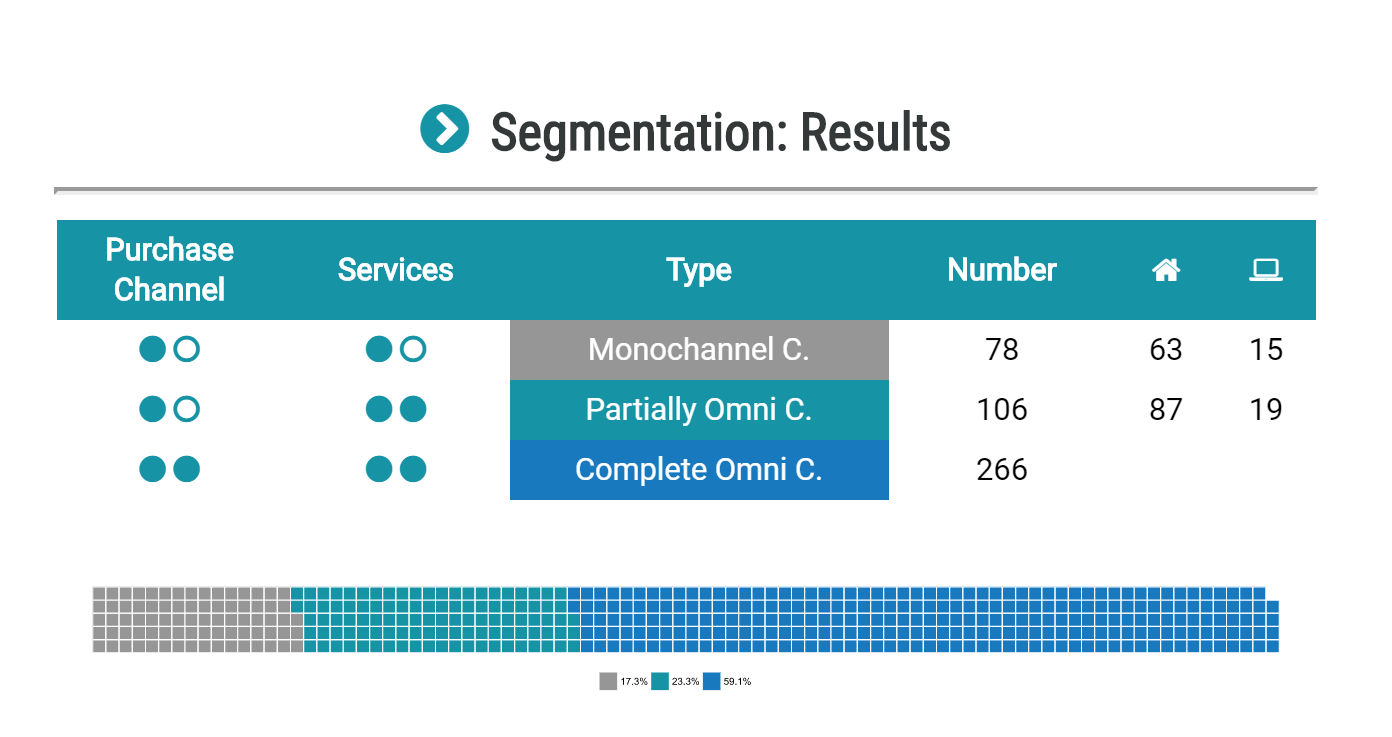
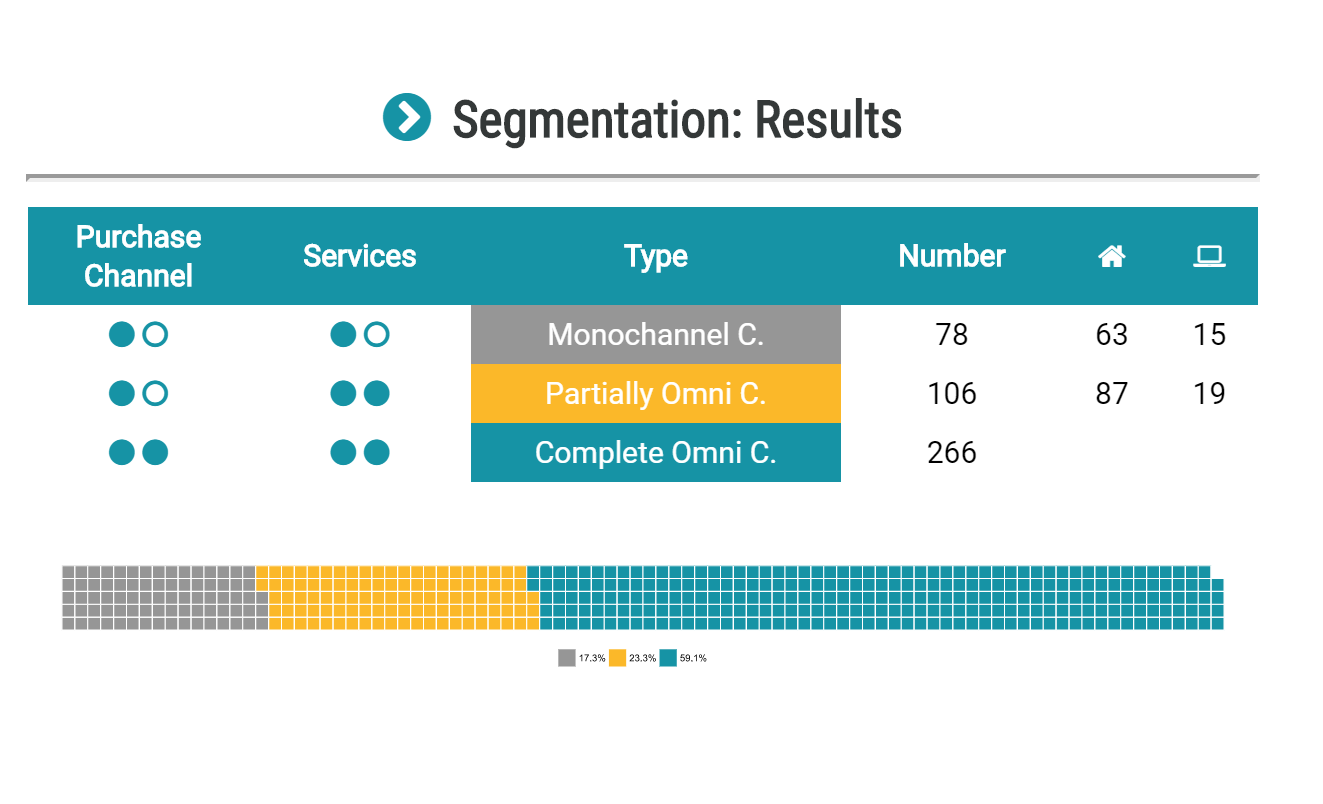
versionfinal
cambio en color del gráfico para mejor presentación en pantalla

diff --git a/index.html b/index.html
@@ -206,8 +206,8 @@
              <table border="1" class="peque bordetotal">
                 <thead><th width="18%">Purchase Channel</th><th width="18%">Services</th><th width="30%" >Type</th><th width="18%">Number</th><th width="8%"><i class="fa fa-home"></i></th><th width="8%"><i class="fa fa-laptop"></i></th></thead>
                 <tr><td><i class="color fa fa-circle"></i> <i class="color fa fa-circle-o"></i></td><td><i class="color fa fa-circle"></i> <i class="color fa fa-circle-o"></i></td><td style="color:white; background-color:#969696 ">Monochannel C.</td><td>78<td>63</td><td>15</td></tr>
-                 <tr><td><i class="color fa fa-circle"></i> <i class="color fa fa-circle-o"></i> </td><td><i class="color fa fa-circle"></i> <i class="color fa fa-circle"></i></td><td style="color:white; background-color:#1693a5">Partially Omni C.</td><td>106</td><td>87</td><td>19</td></tr>
-                <tr><td><i class="color fa fa-circle"></i> <i class="color fa fa-circle"></i></td><td><i class="color fa fa-circle"></i> <i class="color fa fa-circle"></i></td><td  style="color:white; background-color:#1879bf"> Complete Omni C.</td><td>266</td><td colspan="2"></td></tr>
+                 <tr><td><i class="color fa fa-circle"></i> <i class="color fa fa-circle-o"></i> </td><td><i class="color fa fa-circle"></i> <i class="color fa fa-circle"></i></td><td style="color:white; background-color:#FBB829">Partially Omni C.</td><td>106</td><td>87</td><td>19</td></tr>
+                <tr><td><i class="color fa fa-circle"></i> <i class="color fa fa-circle"></i></td><td><i class="color fa fa-circle"></i> <i class="color fa fa-circle"></i></td><td  style="color:white; background-color:#1693a5"> Complete Omni C.</td><td>266</td><td colspan="2"></td></tr>
             </table>
 						<img src="images/Rplot.svg">
         </section>
